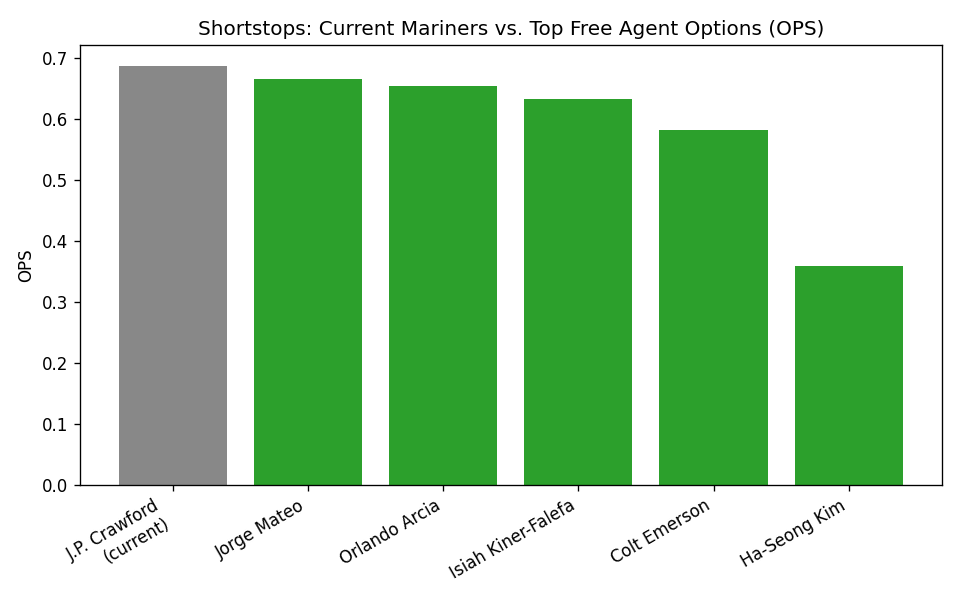
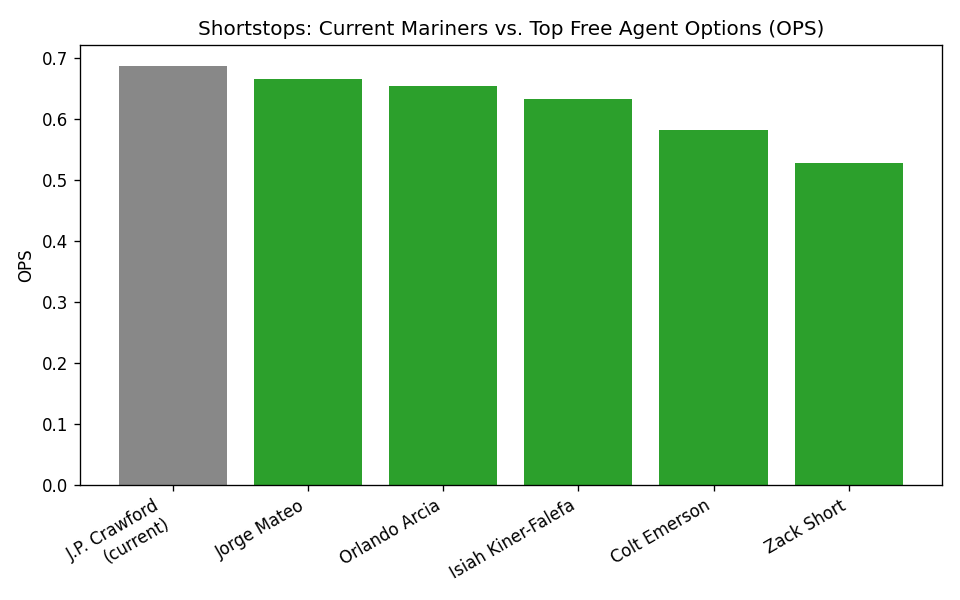
more visuals

Changed region(s): [[0.8125, 0.27, 0.9375, 0.45], [0.8125, 0.84, 0.875, 0.9], [0.7812, 0.9, 0.8125, 0.93]]

diff --git a/output/free_agent_charts/mariners_vs_targets.html b/output/free_agent_charts/mariners_vs_targets.html
@@ -50,12 +50,12 @@
             <div class="name">Dominic Canzone</div>
             <div class="stat">0.820 OPS</div>
           </td>
-          <td class="check-cell"></td>
-          <td class="pos-cell">Designated<br>Hitters</td>
           <td class="check-cell">&#10003;</td>
+          <td class="pos-cell">Designated<br>Hitters</td>
+          <td class="check-cell"></td>
           <td class="name-cell name-cell-right">
-            <div class="name">Seiya Suzuki</div>
-            <div class="stat">0.841 OPS</div>
+            <div class="name">Joc Pederson</div>
+            <div class="stat">0.816 OPS</div>
           </td>
         </tr>
         <tr>
@@ -93,8 +93,8 @@
           <td class="pos-cell">Left-Handed<br>Relievers</td>
           <td class="check-cell">&#10003;</td>
           <td class="name-cell name-cell-right">
-            <div class="name">Yuki Matsui</div>
-            <div class="stat">1.83 ERA</div>
+            <div class="name">Jose Suarez</div>
+            <div class="stat">1.06 ERA</div>
           </td>
         </tr>
         <tr>
@@ -145,8 +145,8 @@
           <td class="pos-cell">Shortstops</td>
           <td class="check-cell"></td>
           <td class="name-cell name-cell-right">
-            <div class="name">Jorge Mateo</div>
-            <div class="stat">0.665 OPS</div>
+            <div class="name">Orlando Arcia</div>
+            <div class="stat">0.654 OPS</div>
           </td>
         </tr>
         <tr>
